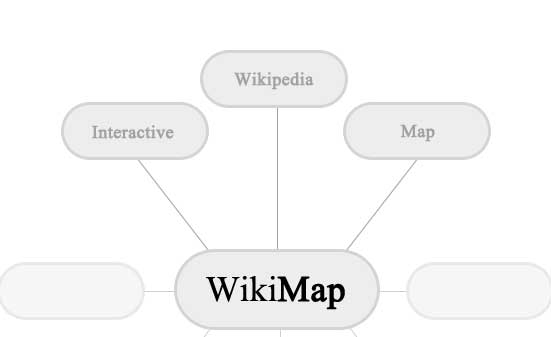
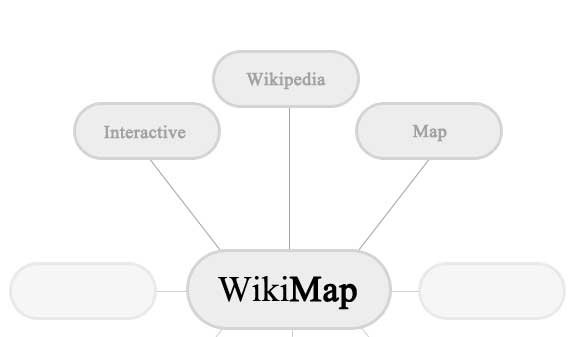
Fixing index.html and the images, which cut off the edges of the nodes.

diff --git a/ui/index.php b/ui/index.php
@@ -17,10 +17,10 @@
 <body id="index" class="home">
 <div id="searchRow">
    <!-- Save for Web Slices -->
-<table id="center" width="551" height="541" border="0" cellpadding="0" cellspacing="0">
+<table id="center" width="576" height="541" border="0" cellpadding="0" cellspacing="0">
    <tr>
    <td>
-   <img src="images/mainpage_01.jpg" width="551" height="337" alt=""></td>
+   <img src="images/mainpage_01.jpg" width="576" height="337" alt=""></td>
    </tr>
    <tr>
    <td>
@@ -30,7 +30,7 @@
    </tr>
    <tr>
    <td>
-   <img src="images/mainpage_03.jpg" width="551" height="140" alt=""></td>
+   <img src="images/mainpage_03.jpg" width="576" height="140" alt=""></td>
    </tr>
 </table>
 </div>
